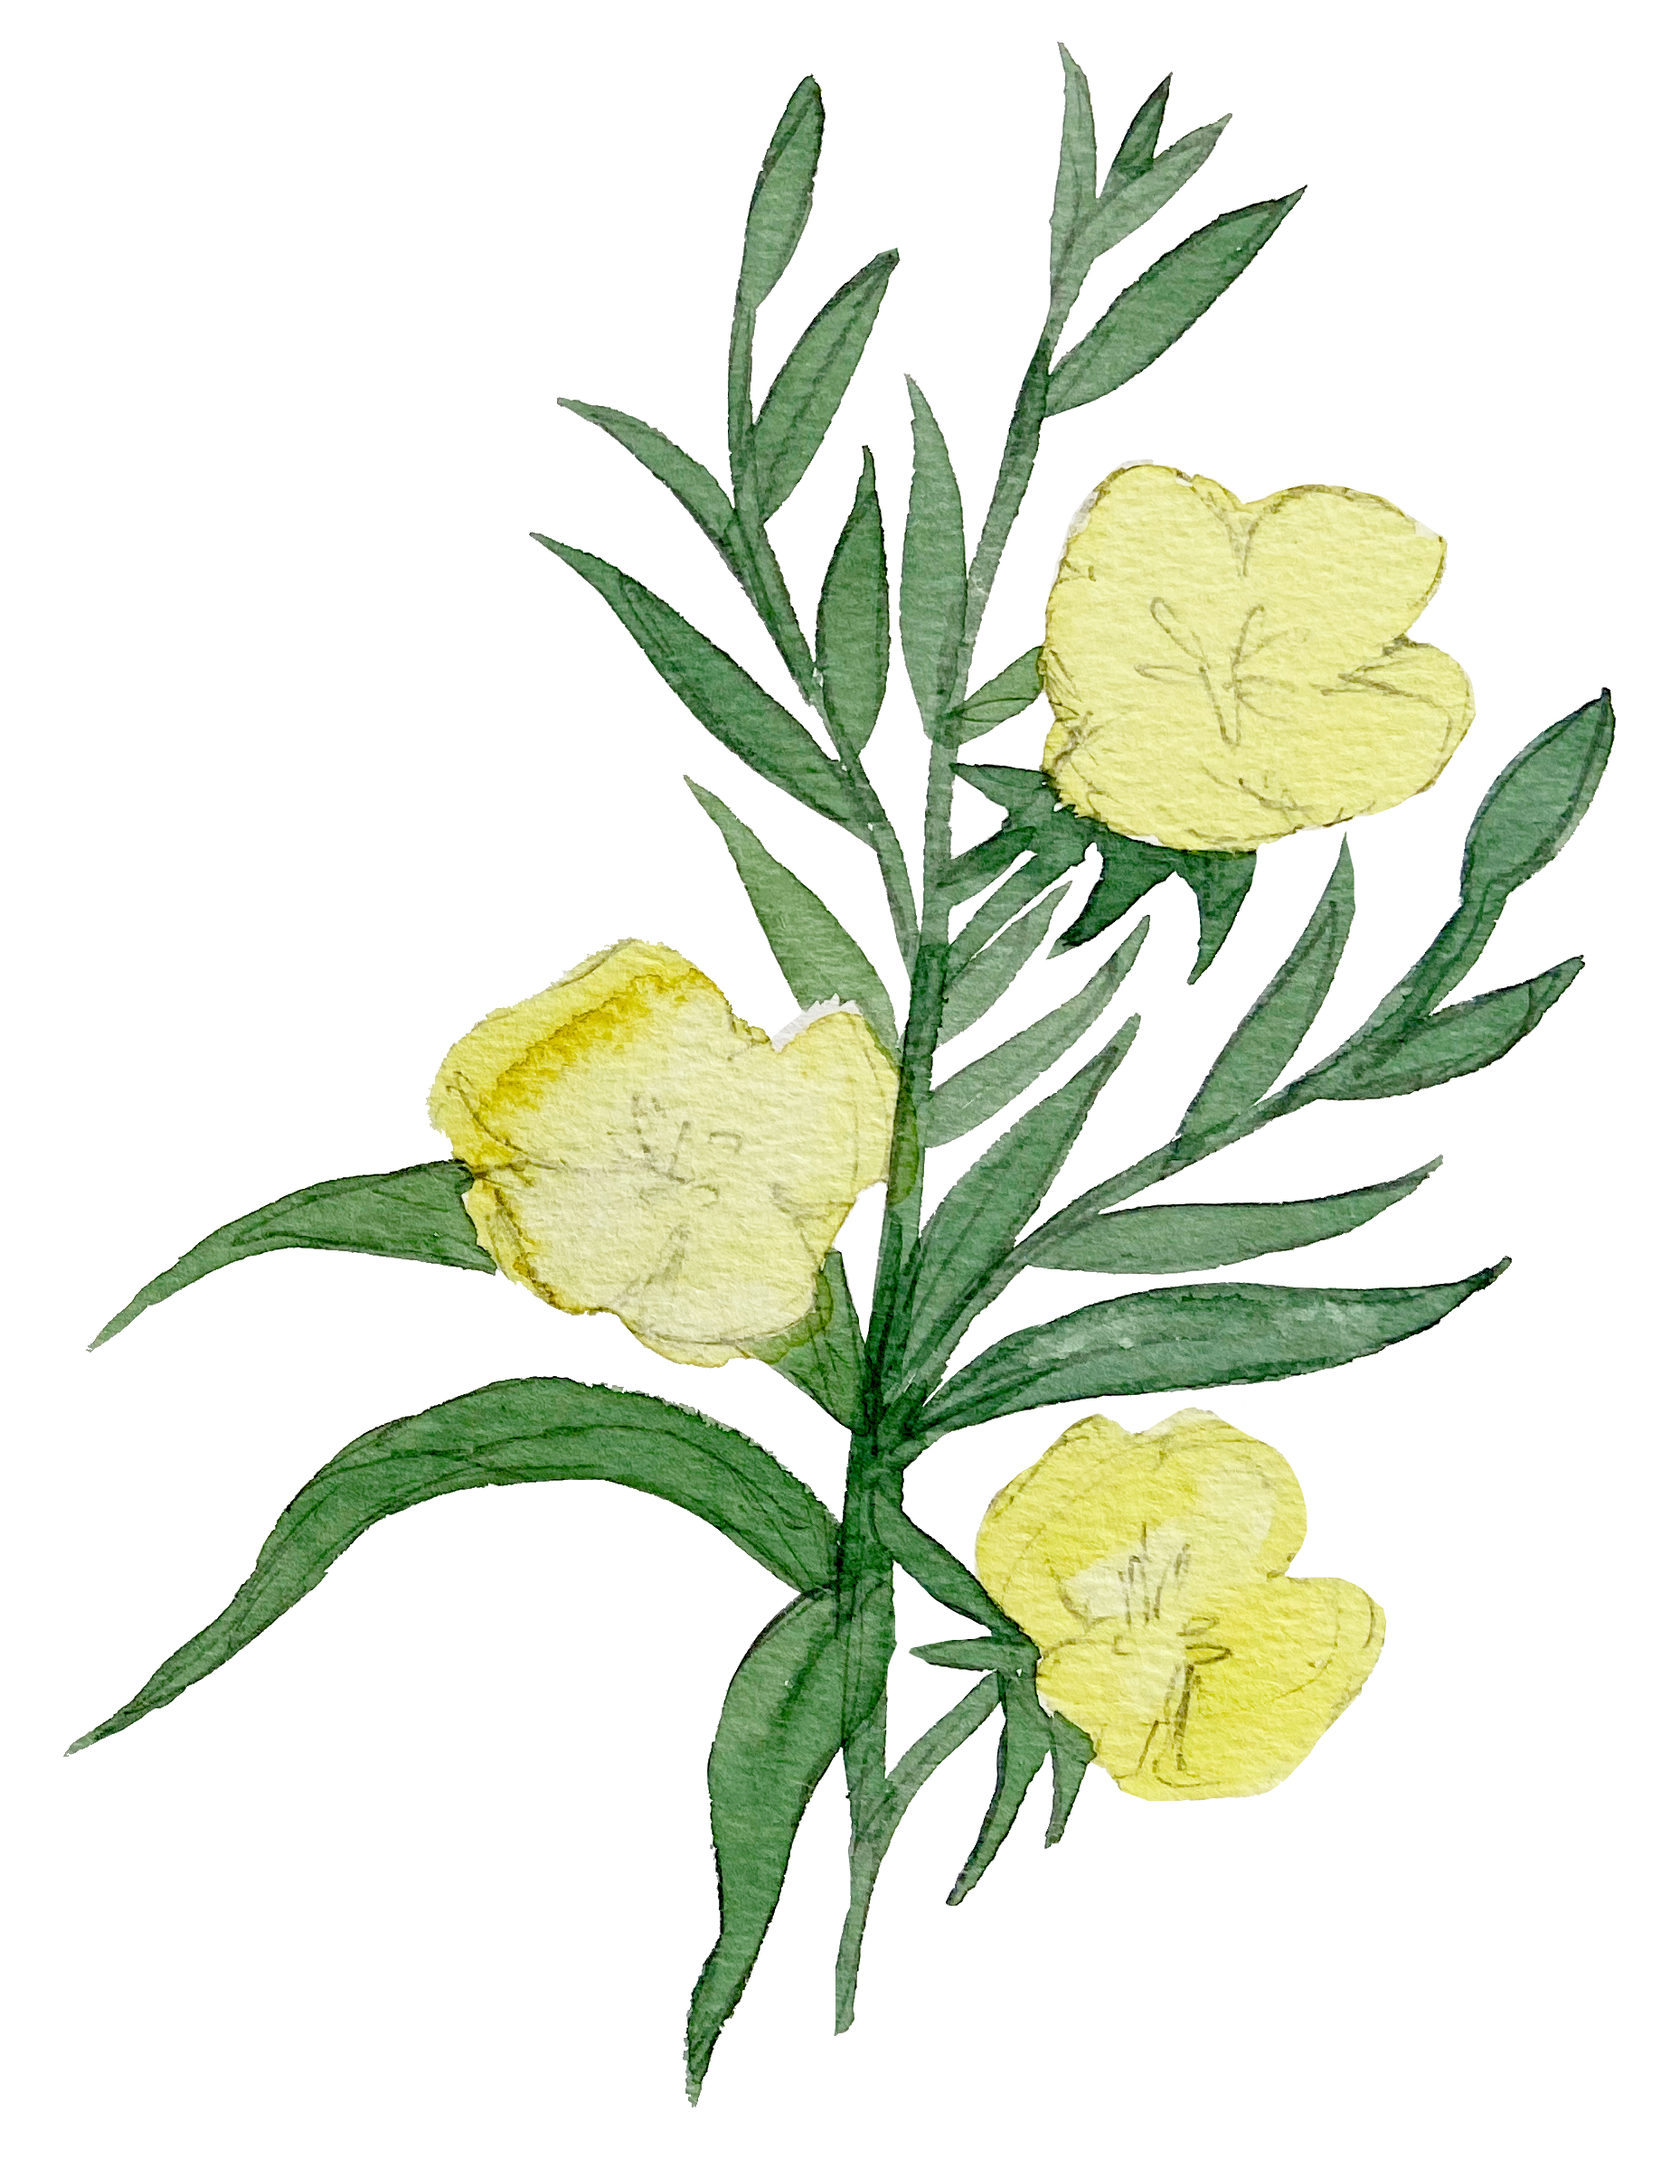
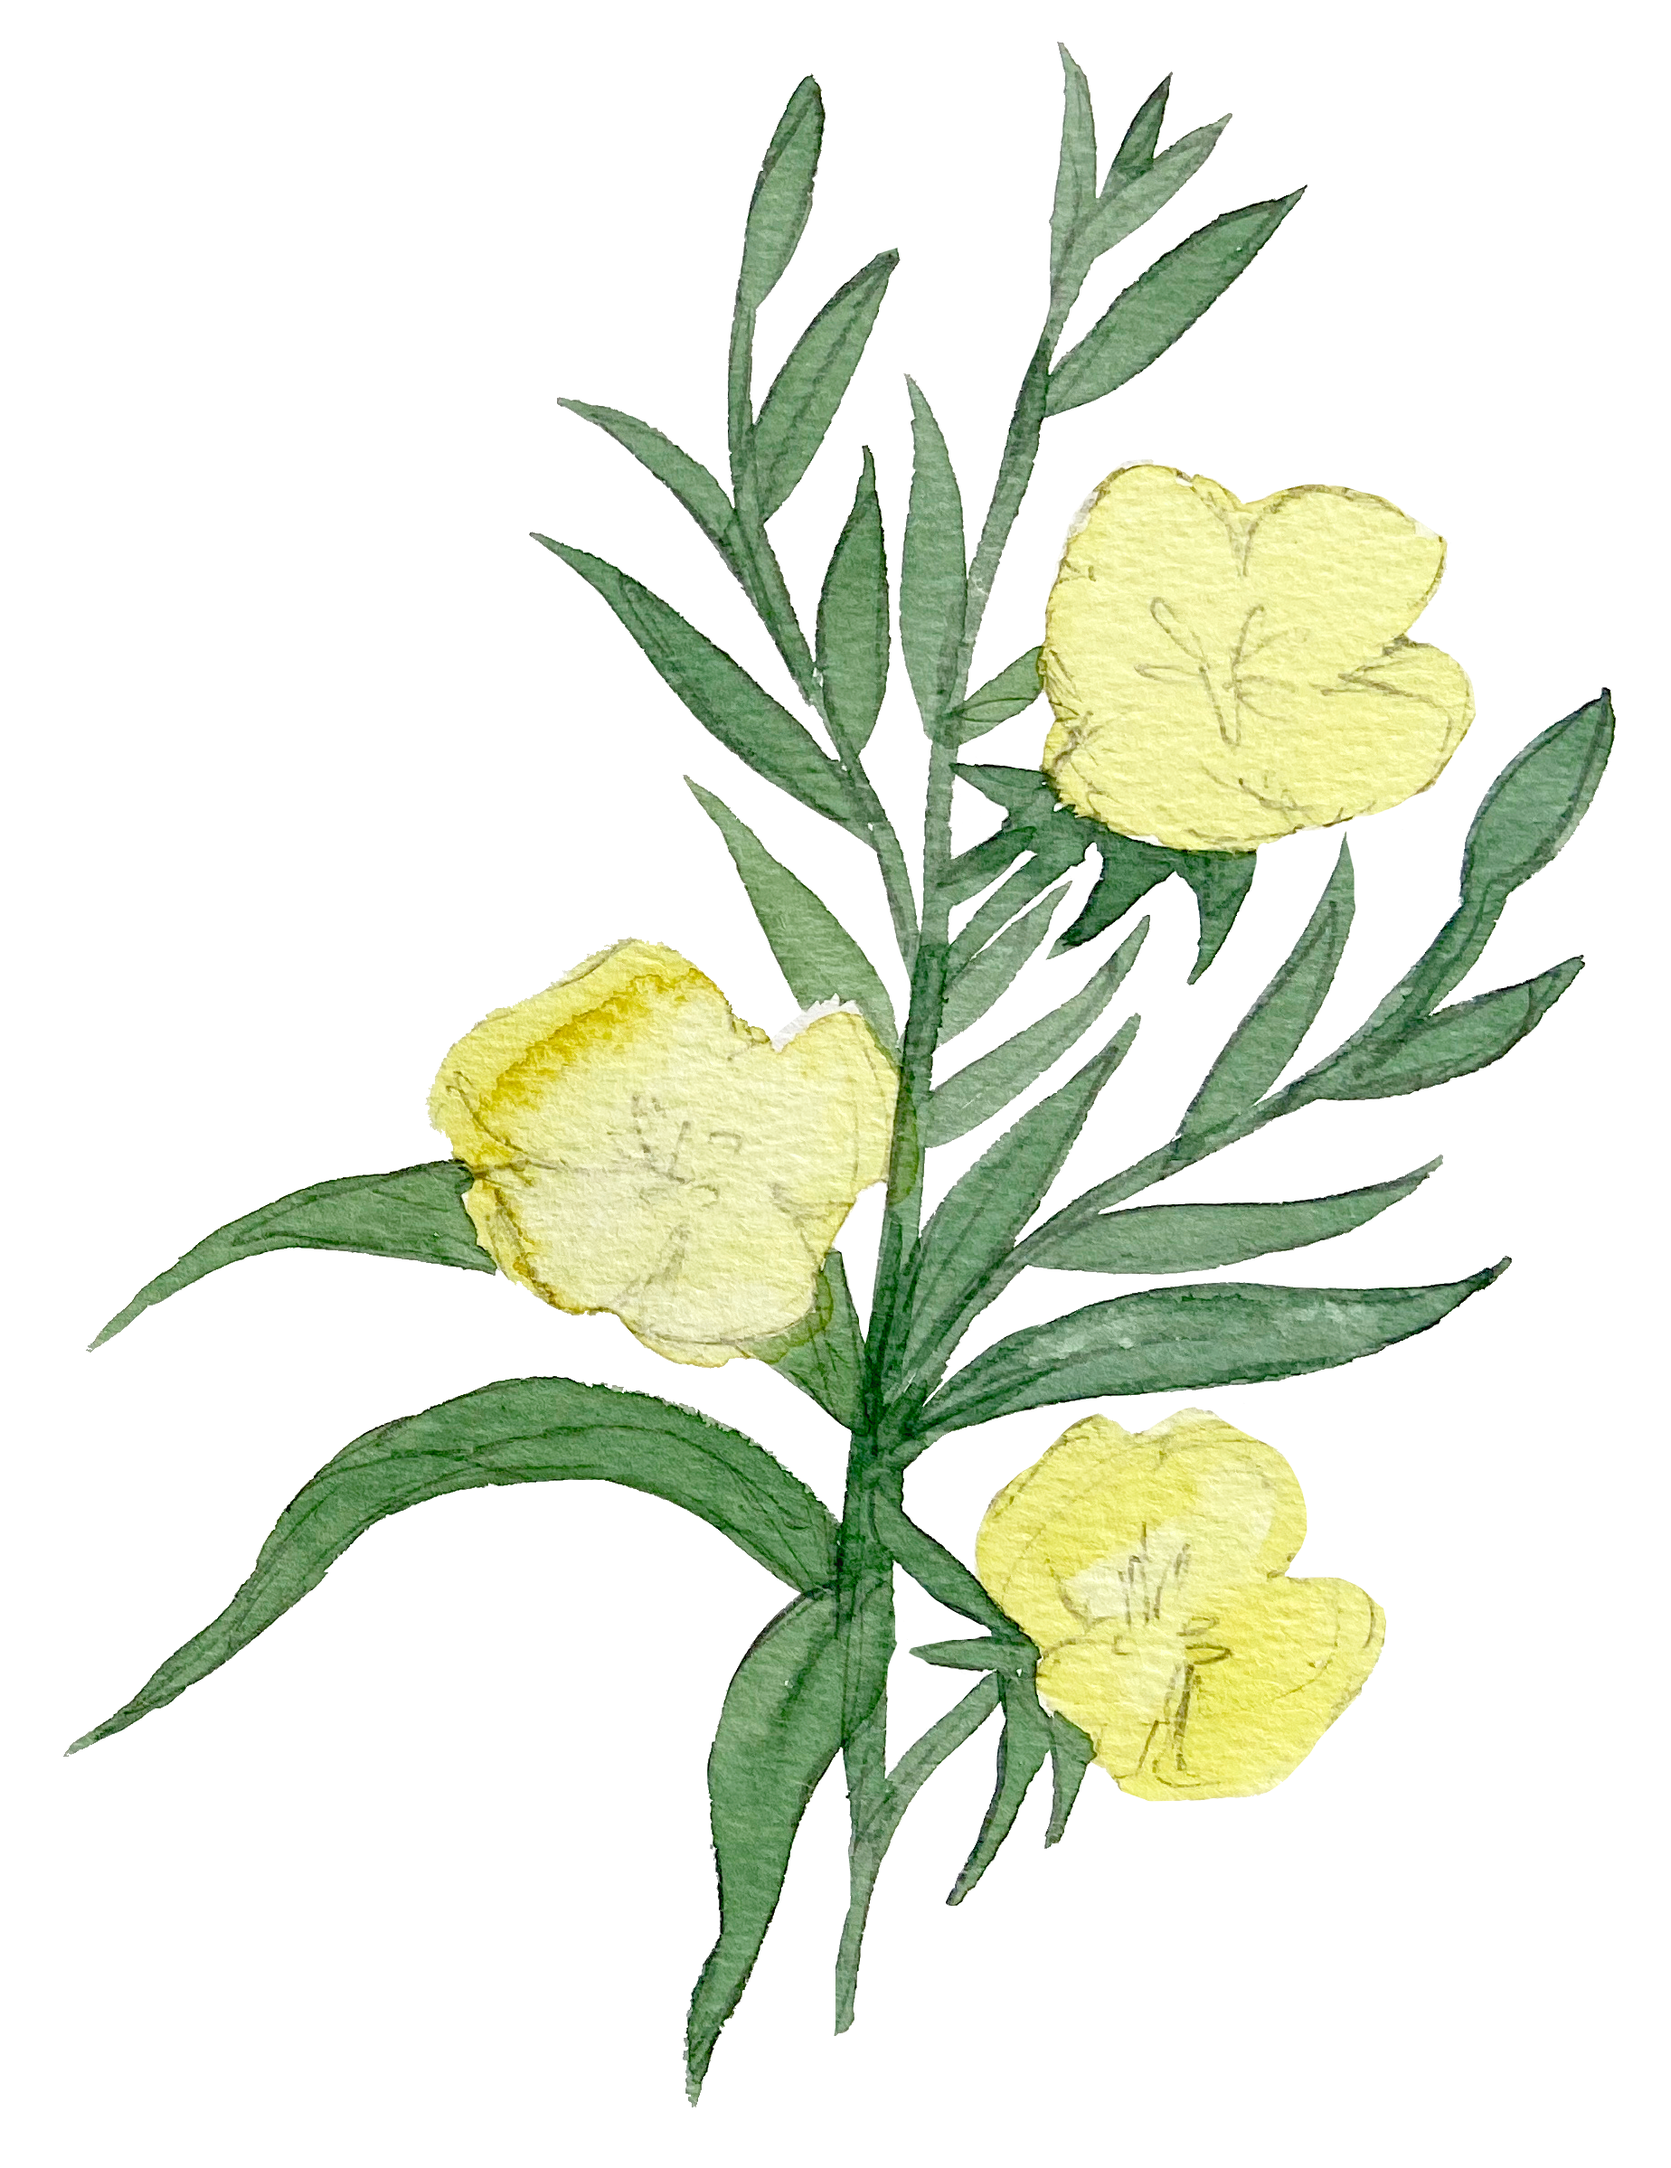
color corrected + slight viewport changes

diff --git a/src/App.js b/src/App.js
@@ -53,7 +53,7 @@ function App() {
 
   return (
     <div className="App">
-      <Canvas camera={{ fov: 75, position: [0, -20, 60] }} style={{ height: "100vh", width: "100vw" }}>
+      <Canvas camera={{ fov: 75, position: [0, 10, 35] }} style={{ height: "100vh", width: "100vw" }}>
         <color attach="background" args={["white"]} />
 
         <Suspense fallback={null}>
